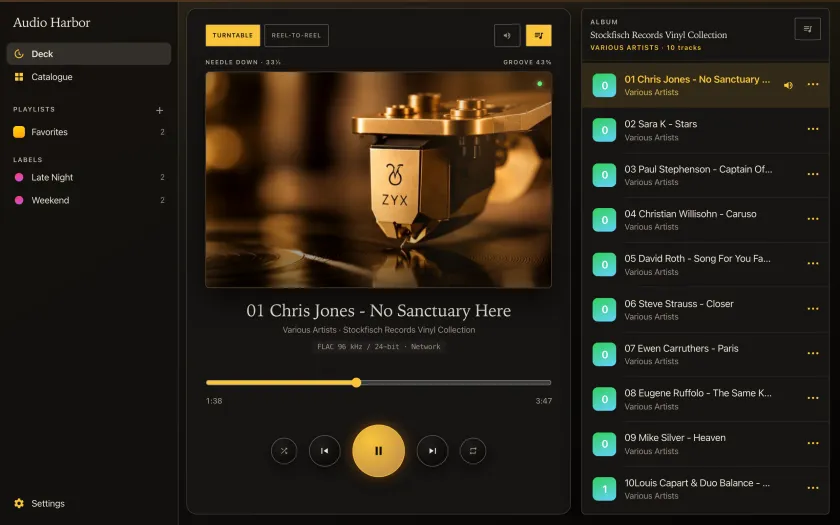
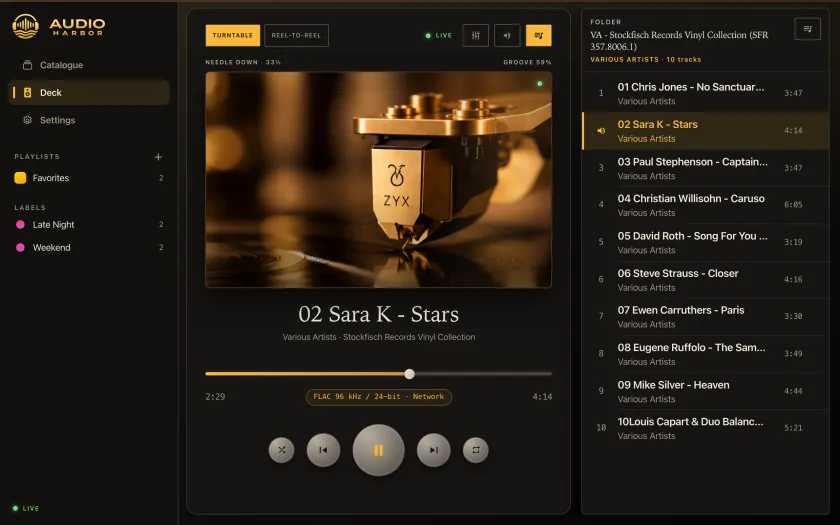
Docs and website screenshots for the redesigned web remote
New screenshots (desktop 2×, phone 3×): Deck and reel-to-reel with the
numbered queue, albums, a folder with the path bar, Output — played to
the UPnP simulator, so the badge shows FLAC 96 kHz / 24-bit untouched.
README, web/README, ARCHITECTURE and the website describe the Mac /
iPhone look: sidebar with the Live lamp, header player instead of the
bottom bar, path bar, floating tab bar, ⓘ for long explanations,
Recordings when switched on.

Claude-Session: https://claude.ai/code/session_017wrANLy2rkNrcoQi8okRTg

diff --git a/docs/index.html b/docs/index.html
@@ -705,23 +705,24 @@ backend = <span class="k">"native"</span>   <span class="c"># auto | native</spa
     <div class="features-header">
       <div class="section-eyebrow">The remote</div>
       <h2 class="section-title">Harbor on the glass. Host on the machine.</h2>
-      <p class="section-sub">Same chassis / ivory / amber language as Audio Harbor. Phone and desktop share one web app — no separate desktop UI on the host.</p>
+      <p class="section-sub">Audio Harbor's chassis / ivory / amber, laid out like the Mac app on the desk and like the iPhone remote in the hand. Phone and desktop share one web app — no separate desktop UI on the host.</p>
     </div>
     <div class="remote-tabs" aria-label="Primary remote tabs">
       <span class="remote-tab"><strong>Deck</strong> · turntable or reel stage</span>
-      <span class="remote-tab"><strong>Catalogue</strong> · dirs, albums, artists, lists</span>
-      <span class="remote-tab"><strong>Settings</strong> · output, sharing, sources</span>
+      <span class="remote-tab"><strong>Catalogue</strong> · directories, albums, artists, playlists</span>
+      <span class="remote-tab"><strong>Recordings</strong> · S/PDIF in, when switched on</span>
+      <span class="remote-tab"><strong>Settings</strong> · sources, output, rack, record, sharing</span>
     </div>
     <div class="hosts-grid" style="margin-top: 36px;">
       <div class="host-card">
         <div class="lead">Phone</div>
         <h3>Fits the hand</h3>
-        <p>Deck sized above the tab bar without scrolling. Up Next opens as a sheet. Mini player only when you leave Deck.</p>
+        <p>Deck sized above the floating tab bar without scrolling. Up Next opens as a sheet. Mini player only when you leave Deck; a long press on a row opens its actions.</p>
       </div>
       <div class="host-card">
         <div class="lead">Desktop</div>
-        <h3>Sidebar + queue rail</h3>
-        <p>Content beside the nav. On Deck, Up Next sits on the right like the macOS app; the bottom bar stays off while you listen there.</p>
+        <h3>Like the Mac app</h3>
+        <p>Sidebar with the Live lamp, serif titles, a compact player at the top right. Albums with an amber play key, folders with a path bar (Up, Home, every folder on the way). On Deck, the numbered queue sits on the right.</p>
       </div>
       <div class="host-card">
         <div class="lead">iOS app</div>
@@ -738,14 +739,14 @@ backend = <span class="k">"native"</span>   <span class="c"># auto | native</spa
   <div class="shots-header">
     <div class="section-eyebrow">Screens</div>
     <h2 class="section-title">The remote, on the desk and in the hand.</h2>
-    <p class="section-sub">One web app from the host. A browser on the desk gets sidebar and queue rail; a phone gets the Deck above the tab bar. The badge says what leaves the host: here FLAC 96 kHz / 24-bit to a network player.</p>
+    <p class="section-sub">One web app from the host, in the look of Audio Harbor for Mac and iPhone. A browser on the desk gets the sidebar, the queue rail and a compact player at the top; a phone gets the Deck above a floating tab bar. The badge says what leaves the host: here FLAC 96 kHz / 24-bit to a network player.</p>
   </div>
   <div class="shots-scroll">
     <div class="shot wide">
       <button class="shot-open" type="button"
               data-full="images/web/shots/lb/desktop-deck.webp"
-              data-caption="Deck — the queue rail beside the stage, the path badge under the title">
-        <img src="images/web/shots/desktop-deck.webp" width="840" height="525" alt="The Deck in a desktop browser: turntable stage, a 96 kHz / 24-bit FLAC playing, the album queue on the right" loading="lazy" />
+              data-caption="Deck — aluminium transport, the numbered queue beside the stage, the path badge between the times">
+        <img src="images/web/shots/desktop-deck.webp" width="840" height="525" alt="The Deck in a desktop browser: turntable stage, a 96 kHz / 24-bit FLAC playing to a network player, the numbered queue on the right" loading="lazy" />
       </button>
       <div class="shot-label">Deck</div>
     </div>
@@ -761,23 +762,23 @@ backend = <span class="k">"native"</span>   <span class="c"># auto | native</spa
       <button class="shot-open" type="button"
               data-full="images/web/shots/lb/desktop-albums.webp"
               data-caption="Catalogue — albums and artists from your own folders">
-        <img src="images/web/shots/desktop-albums.webp" width="840" height="525" alt="The Catalogue listing albums with artist and song count, the bottom bar playing" loading="lazy" />
+        <img src="images/web/shots/desktop-albums.webp" width="840" height="525" alt="The Catalogue listing albums with the artist in amber, the song count and a play key on each row, the compact player at the top right" loading="lazy" />
       </button>
       <div class="shot-label">Albums</div>
     </div>
     <div class="shot wide">
       <button class="shot-open" type="button"
               data-full="images/web/shots/lb/desktop-dirs.webp"
-              data-caption="Dirs — browse the disks as they are">
-        <img src="images/web/shots/desktop-dirs.webp" width="840" height="525" alt="The Catalogue browsing a folder of album directories" loading="lazy" />
+              data-caption="Directories — browse the disks as they are; Up, Home and every folder on the path one tap away">
+        <img src="images/web/shots/desktop-dirs.webp" width="840" height="525" alt="The Catalogue inside a folder of album directories, with the path bar: Up, Home, Audiophil, Stockfisch Records" loading="lazy" />
       </button>
-      <div class="shot-label">Dirs</div>
+      <div class="shot-label">Directories</div>
     </div>
     <div class="shot wide">
       <button class="shot-open" type="button"
               data-full="images/web/shots/lb/desktop-output.webp"
-              data-caption="Output — local DAC or network player, and what the stream is">
-        <img src="images/web/shots/desktop-output.webp" width="840" height="525" alt="Settings Output with a network player selected and the DSD as PCM gain" loading="lazy" />
+              data-caption="Output — local DAC or network player, and what the stream is; the long explanations behind ⓘ">
+        <img src="images/web/shots/desktop-output.webp" width="840" height="525" alt="Settings Output with a network player selected, the DSD as PCM gain and the path FLAC 96 kHz / 24-bit · Network" loading="lazy" />
       </button>
       <div class="shot-label">Output</div>
     </div>
@@ -786,8 +787,8 @@ backend = <span class="k">"native"</span>   <span class="c"># auto | native</spa
     <div class="shot tall">
       <button class="shot-open" type="button"
               data-full="images/web/shots/lb/phone-deck.webp"
-              data-caption="Deck on the phone — sized above the tab bar">
-        <img src="images/web/shots/phone-deck.webp" width="480" height="1039" alt="The Deck on a phone: turntable stage, track title, FLAC 96 kHz / 24-bit badge and transport" loading="lazy" />
+              data-caption="Deck on the phone — sized above the floating tab bar">
+        <img src="images/web/shots/phone-deck.webp" width="480" height="1039" alt="The Deck on a phone: turntable stage, track title, FLAC 96 kHz / 24-bit badge between the times and the aluminium transport" loading="lazy" />
       </button>
       <div class="shot-label">Deck</div>
     </div>
@@ -795,7 +796,7 @@ backend = <span class="k">"native"</span>   <span class="c"># auto | native</spa
       <button class="shot-open" type="button"
               data-full="images/web/shots/lb/phone-queue.webp"
               data-caption="Up Next — a sheet over the Deck">
-        <img src="images/web/shots/phone-queue.webp" width="480" height="1039" alt="The Up Next sheet on a phone with the playing track marked" loading="lazy" />
+        <img src="images/web/shots/phone-queue.webp" width="480" height="1039" alt="The Up Next sheet on a phone: numbered tracks with their length, the playing one marked in amber" loading="lazy" />
       </button>
       <div class="shot-label">Up Next</div>
     </div>
@@ -811,7 +812,7 @@ backend = <span class="k">"native"</span>   <span class="c"># auto | native</spa
       <button class="shot-open" type="button"
               data-full="images/web/shots/lb/phone-albums.webp"
               data-caption="Catalogue — the host's albums in your hand">
-        <img src="images/web/shots/phone-albums.webp" width="480" height="1039" alt="The Catalogue albums list on a phone with the mini player above the tab bar" loading="lazy" />
+        <img src="images/web/shots/phone-albums.webp" width="480" height="1039" alt="The Catalogue albums list on a phone with the mini player above the floating tab bar" loading="lazy" />
       </button>
       <div class="shot-label">Catalogue</div>
     </div>

diff --git a/web/README.md b/web/README.md
@@ -1,19 +1,23 @@
 # Web remote
 
-Mobile-first web app (Vite + TypeScript, no framework) served by the host. Visual language matches the
-iOS remote (Harbor chassis / ivory / amber). Layers depend inward only:
+Mobile-first web app (Vite + TypeScript, no framework) served by the host. It looks like Audio Harbor
+(Harbor chassis / ivory / amber, `HarborTheme.swift`): on a desktop like the Mac app, on a phone like the
+iOS remote. The glyphs are drawn after SF Symbols' shapes (the symbols themselves are for Apple platforms). Layers depend inward only:
 `ui` → `services` → `state` / `api` → `core`. Nothing below `ui` touches the DOM.
 
 ## Tabs and layout
 
-Primary tabs: **Deck · Catalogue · Settings**. Catalogue roots: Dirs · Albums · Artists · Lists.
-Labels open as a drill-in (not a primary tab).
+Primary tabs: **Deck · Catalogue · Settings**, and **Recordings** after Catalogue while recording is on.
+Catalogue roots: Directories · Albums · Artists · Playlists (Dirs · Lists on a phone). Labels open as a
+drill-in (not a primary tab).
 
 | Surface | Phone | Desktop (`min-width: 700px`) |
 |---|---|---|
-| Chrome | Tab bar; mini player above it when a track is loaded **and** you are not on Deck | Left sidebar; bottom now-bar when a track is loaded **and** you are not on Deck |
-| Deck | Stacked stage + controls; sized to fit above the tab bar without scrolling; Up Next is a sheet | Larger stacked Deck + optional **Up Next** rail on the right (macOS-style); no bottom player |
-| Catalogue / Settings | Full-screen lists | Content starts beside the sidebar (not a centered narrow column) |
+| Chrome | Floating tab bar; mini player above it when a track is loaded **and** you are not on Deck; centred titles | Sidebar (brand logo, Catalogue · Recordings · Deck · Settings with the amber marker, playlists, labels, Live / Standby lamp); serif title and a compact header player (with a progress line) when a track is loaded **and** you are not on Deck — no bottom bar |
+| Deck | Stacked stage + controls; sized to fit above the tab bar without scrolling; Up Next is a sheet | Larger stacked Deck + optional **Up Next** rail on the right (numbered, with lengths) |
+| Catalogue | Plain list on the chassis, actions on a long press | Rows in a faceplate panel: albums with the artist in amber and an amber play key, folders with a small amber folder; actions on right click / hover `···` |
+| Path bar | Under the search, once inside a folder, album, artist or list: Up · Home · the path (each folder above taps straight there) · Play; the path scrolls sideways | Same, as the top of the list's panel |
+| Settings | Sections with an ⓘ at the title for long explanations (`settings/infoNotes.ts`); short notes, warnings and status lines stay | Each section a panel, its title inside |
 
 The Deck stage is Turntable or Reel-to-Reel (preference in `localStorage` under `harbor.deckStyle`);
 photos live in `public/deck/` (`*-portrait.jpg` / `*-wide.jpg`). Queue rail open/closed is

diff --git a/docs/ARCHITECTURE.md b/docs/ARCHITECTURE.md
@@ -291,7 +291,7 @@ sequenceDiagram
 
 ## Web remote
 
-A single-page app served by the host, mobile first, desktop layout on wide screens (`min-width: 700px`). Tabs are **Deck · Catalogue · Settings**. Deck is a Harbor stage (Turntable / Reel-to-Reel) with cover chip; on desktop, Up Next sits in a right rail like the macOS app, and the bottom player is hidden while Deck is open. Phone and desktop Deck are sized to fit the viewport without scrolling. Layers depend inward only — `ui` → `services` → `state` / `api` → `core` — and nothing below `ui` touches the DOM. `main.ts` is the composition root; views get an `AppContext` of interfaces; state is one `Store<AppState>`; `chromeFor` in `selectors.ts` decides mini player / now-bar; live player state follows the `PlayerMarkup` contract, so lists keep their scroll position while tracks change. The rules and the folder map are in [web/README.md](../web/README.md).
+A single-page app served by the host, mobile first, desktop layout on wide screens (`min-width: 700px`). Tabs are **Deck · Catalogue · Settings** (and **Recordings** while recording is on). It looks like Audio Harbor — the Mac app on a desktop, the iOS remote on a phone. Deck is a Harbor stage (Turntable / Reel-to-Reel) with cover chip; on desktop, Up Next sits in a right rail like the macOS app, and a compact player sits at the top right of the other screens (no bottom bar). Phone and desktop Deck are sized to fit the viewport without scrolling. Layers depend inward only — `ui` → `services` → `state` / `api` → `core` — and nothing below `ui` touches the DOM. `main.ts` is the composition root; views get an `AppContext` of interfaces; state is one `Store<AppState>`; `chromeFor` in `selectors.ts` decides mini player / header player; live player state follows the `PlayerMarkup` contract, so lists keep their scroll position while tracks change. The rules and the folder map are in [web/README.md](../web/README.md).
 
 The web remote talks only to the REST API and the WebSocket. Pairing stores the token in `localStorage` (`harbor.token`).
 

diff --git a/README.md b/README.md
@@ -128,7 +128,14 @@ macOS `.pkg` installs to `/usr/local/audio-harbor-headless`, adds `audioharbor` 
 
 ### Web remote (Deck · Catalogue · Settings)
 
-The Vite remote matches the Harbor look of the iOS / macOS app: Deck (Turntable or Reel-to-Reel stage), Catalogue (Dirs · Albums · Artists · Lists), and Settings. On a phone the Deck fits above the tab bar without scrolling; on a wide desktop the content sits beside the sidebar, Up Next is a right rail on Deck, and the bottom player stays off while you are on Deck. Details: [web/README.md](web/README.md).
+The Vite remote looks like Audio Harbor: on a desktop like the Mac app, on a phone like the iPhone remote. Deck (Turntable or Reel-to-Reel stage, aluminium transport, the path badge between the times), Catalogue (Directories · Albums · Artists · Playlists), Recordings when recording is switched on, and Settings.
+
+- **Phone:** the Deck fits above the floating tab bar without scrolling; Up Next is a sheet; a mini player shows when you leave the Deck; a long press on a row opens its actions.
+- **Desktop:** sidebar (Catalogue · Recordings · Deck · Settings, playlists and labels, a Live / Standby lamp), serif screen titles and a compact player at the top right; on Deck a numbered queue rail on the right.
+- **Catalogue:** under the search a path bar — Up, Home, every folder on the way to tap straight back to, and Play. Albums show the artist in amber and an amber play key (desktop); a song shows a speaker in front of its title while it plays and its format quietly at the end.
+- **Settings:** long explanations sit behind an ⓘ at their section's title.
+
+Details: [web/README.md](web/README.md).
 
 Settings has five panes:
 
